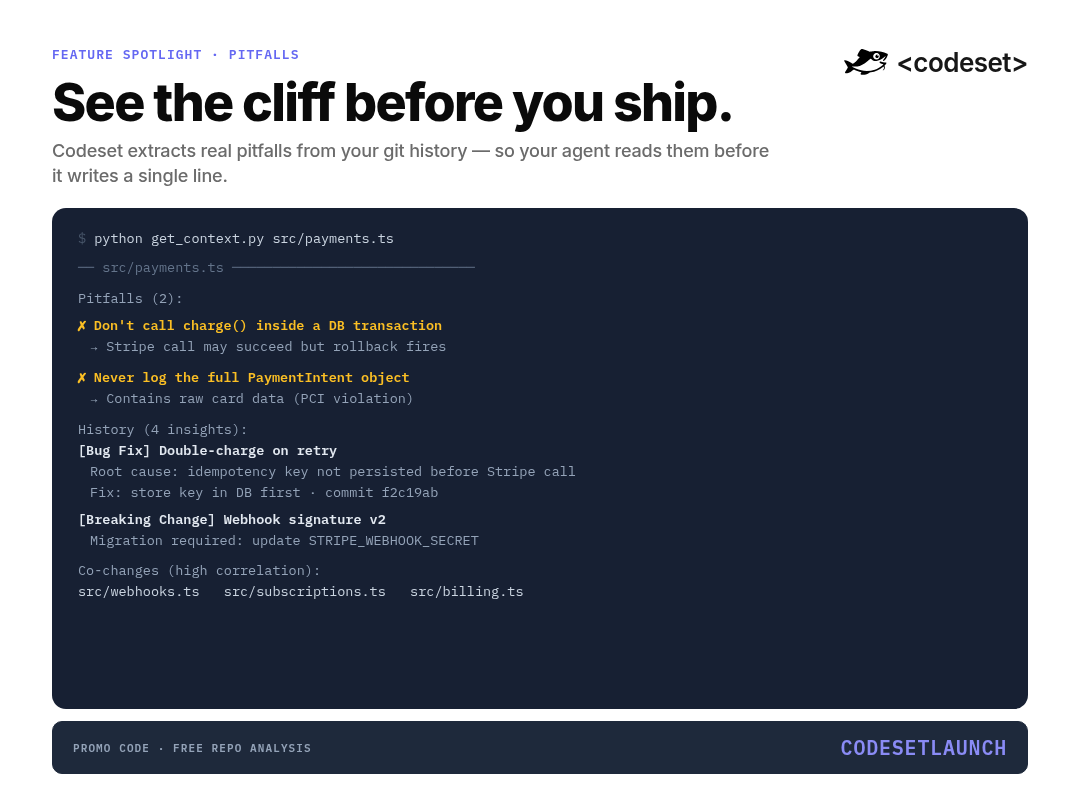
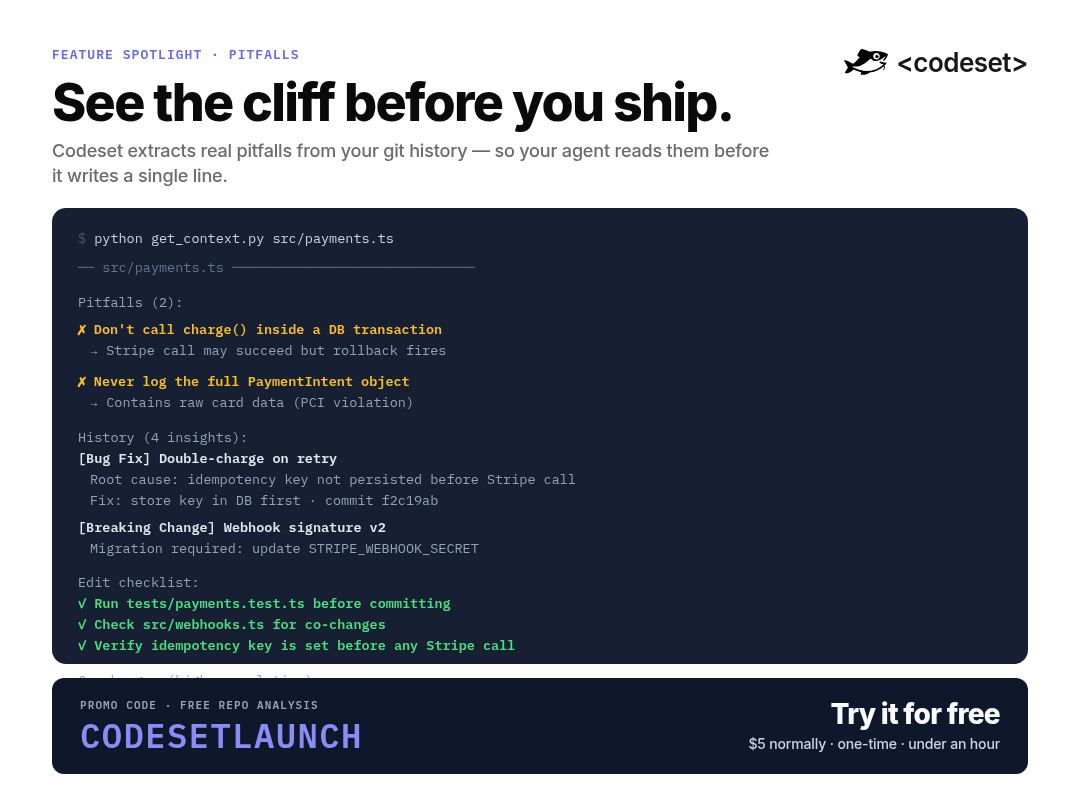
update linkedin post

Changed region(s): [[0.0306, 0.3704, 0.9778, 0.9568]]

diff --git a/linkedin/linkedin-pitfalls-1080x810.html b/linkedin/linkedin-pitfalls-1080x810.html
@@ -42,7 +42,7 @@
     }
     .t-prompt { color: #475569; }
     .t-path { color: #64748b; margin-top: 8px; }
-    .t-sec { margin-top: 10px; }
+    .t-sec { margin-top: 14px; }
     .t-sec-label { color: #94a3b8; }
     .t-val { color: #e2e8f0; font-weight: 600; }
     .t-sub { color: #94a3b8; padding-left: 12px; }
@@ -88,14 +88,27 @@
     </div>
 
     <div class="t-sec">
+      <div class="t-sec-label">Edit checklist:</div>
+      <div class="t-green">  ✓  Run tests/payments.test.ts before committing</div>
+      <div class="t-green">  ✓  Check src/webhooks.ts for co-changes</div>
+      <div class="t-green">  ✓  Verify idempotency key is set before any Stripe call</div>
+    </div>
+
+    <div class="t-sec">
       <div class="t-sec-label">Co-changes (high correlation):</div>
       <div>  src/webhooks.ts &nbsp; src/subscriptions.ts &nbsp; src/billing.ts</div>
     </div>
   </div>
 
-  <div style="margin-top:12px; display:flex; align-items:center; justify-content:space-between; padding:12px 20px; background:#1e293b; border-radius:10px; border:1px solid #1e293b;">
-    <span style="font-family:'IBM Plex Mono',monospace; font-size:11px; font-weight:600; color:#94a3b8; letter-spacing:0.1em; text-transform:uppercase;">Promo code · free repo analysis</span>
-    <span style="font-family:'IBM Plex Mono',monospace; font-size:20px; font-weight:600; color:hsl(239,84%,75%); letter-spacing:0.04em;">CODESETLAUNCH</span>
+  <div style="margin-top:14px; padding:20px 28px; background:#0f172a; border-radius:12px; display:flex; align-items:center; justify-content:space-between; gap:16px;">
+    <div>
+      <div style="font-family:'IBM Plex Mono',monospace; font-size:11px; font-weight:600; color:#94a3b8; letter-spacing:0.1em; text-transform:uppercase; margin-bottom:5px;">Promo code · free repo analysis</div>
+      <div style="font-family:'IBM Plex Mono',monospace; font-size:34px; font-weight:600; color:hsl(239,84%,75%); letter-spacing:0.04em; line-height:1.1;">CODESETLAUNCH</div>
+    </div>
+    <div style="text-align:right;">
+      <div style="font-size:28px; font-weight:800; color:#f8fafc; letter-spacing:-0.025em; line-height:1.1;">Try it for free</div>
+      <div style="font-size:14px; font-weight:500; color:#cbd5e1; margin-top:5px; letter-spacing:-0.01em;">$5 normally · one-time · under an hour</div>
+    </div>
   </div>
 </body>
 </html>
